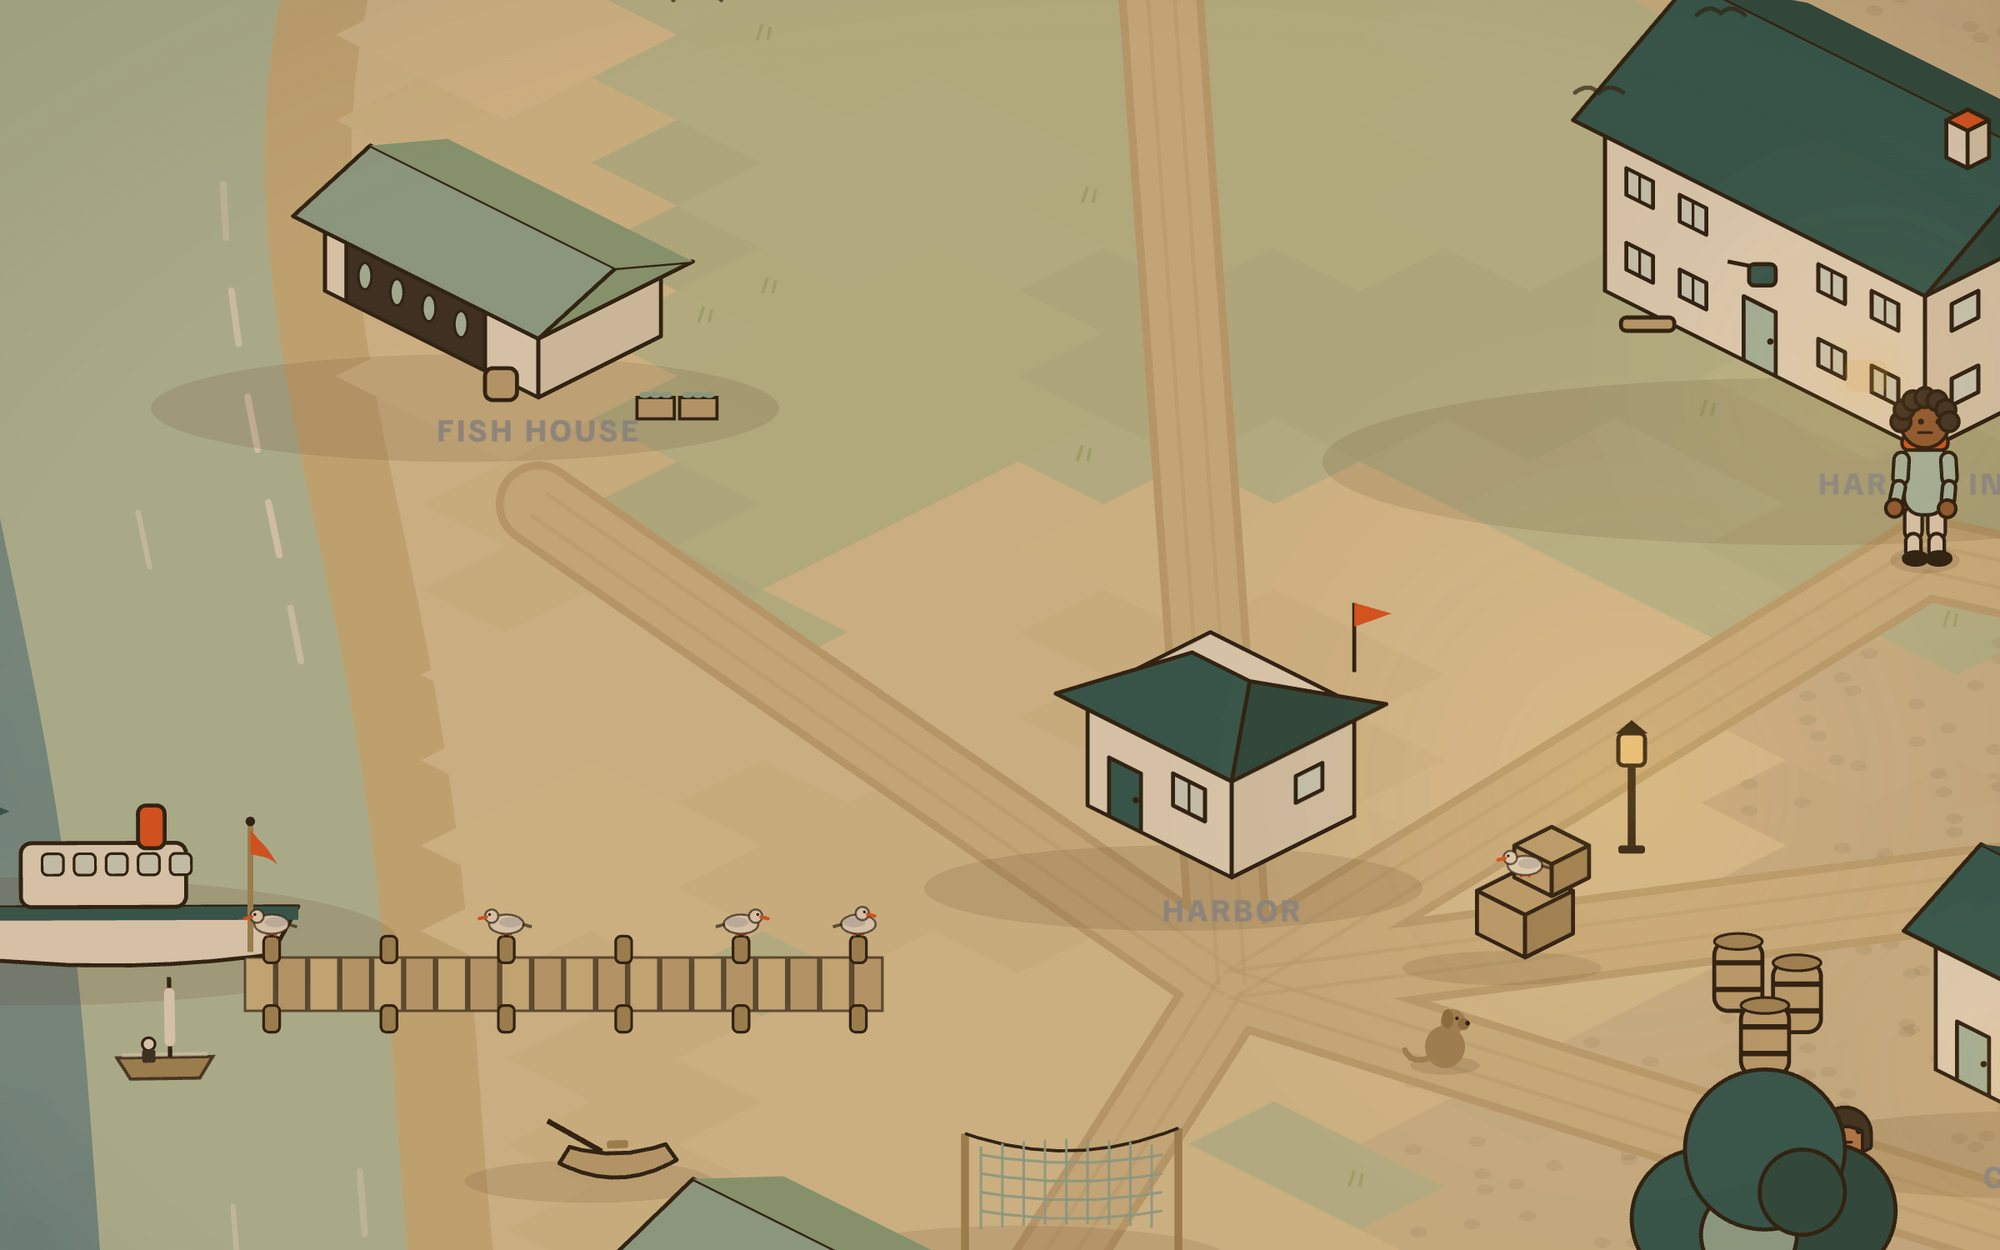
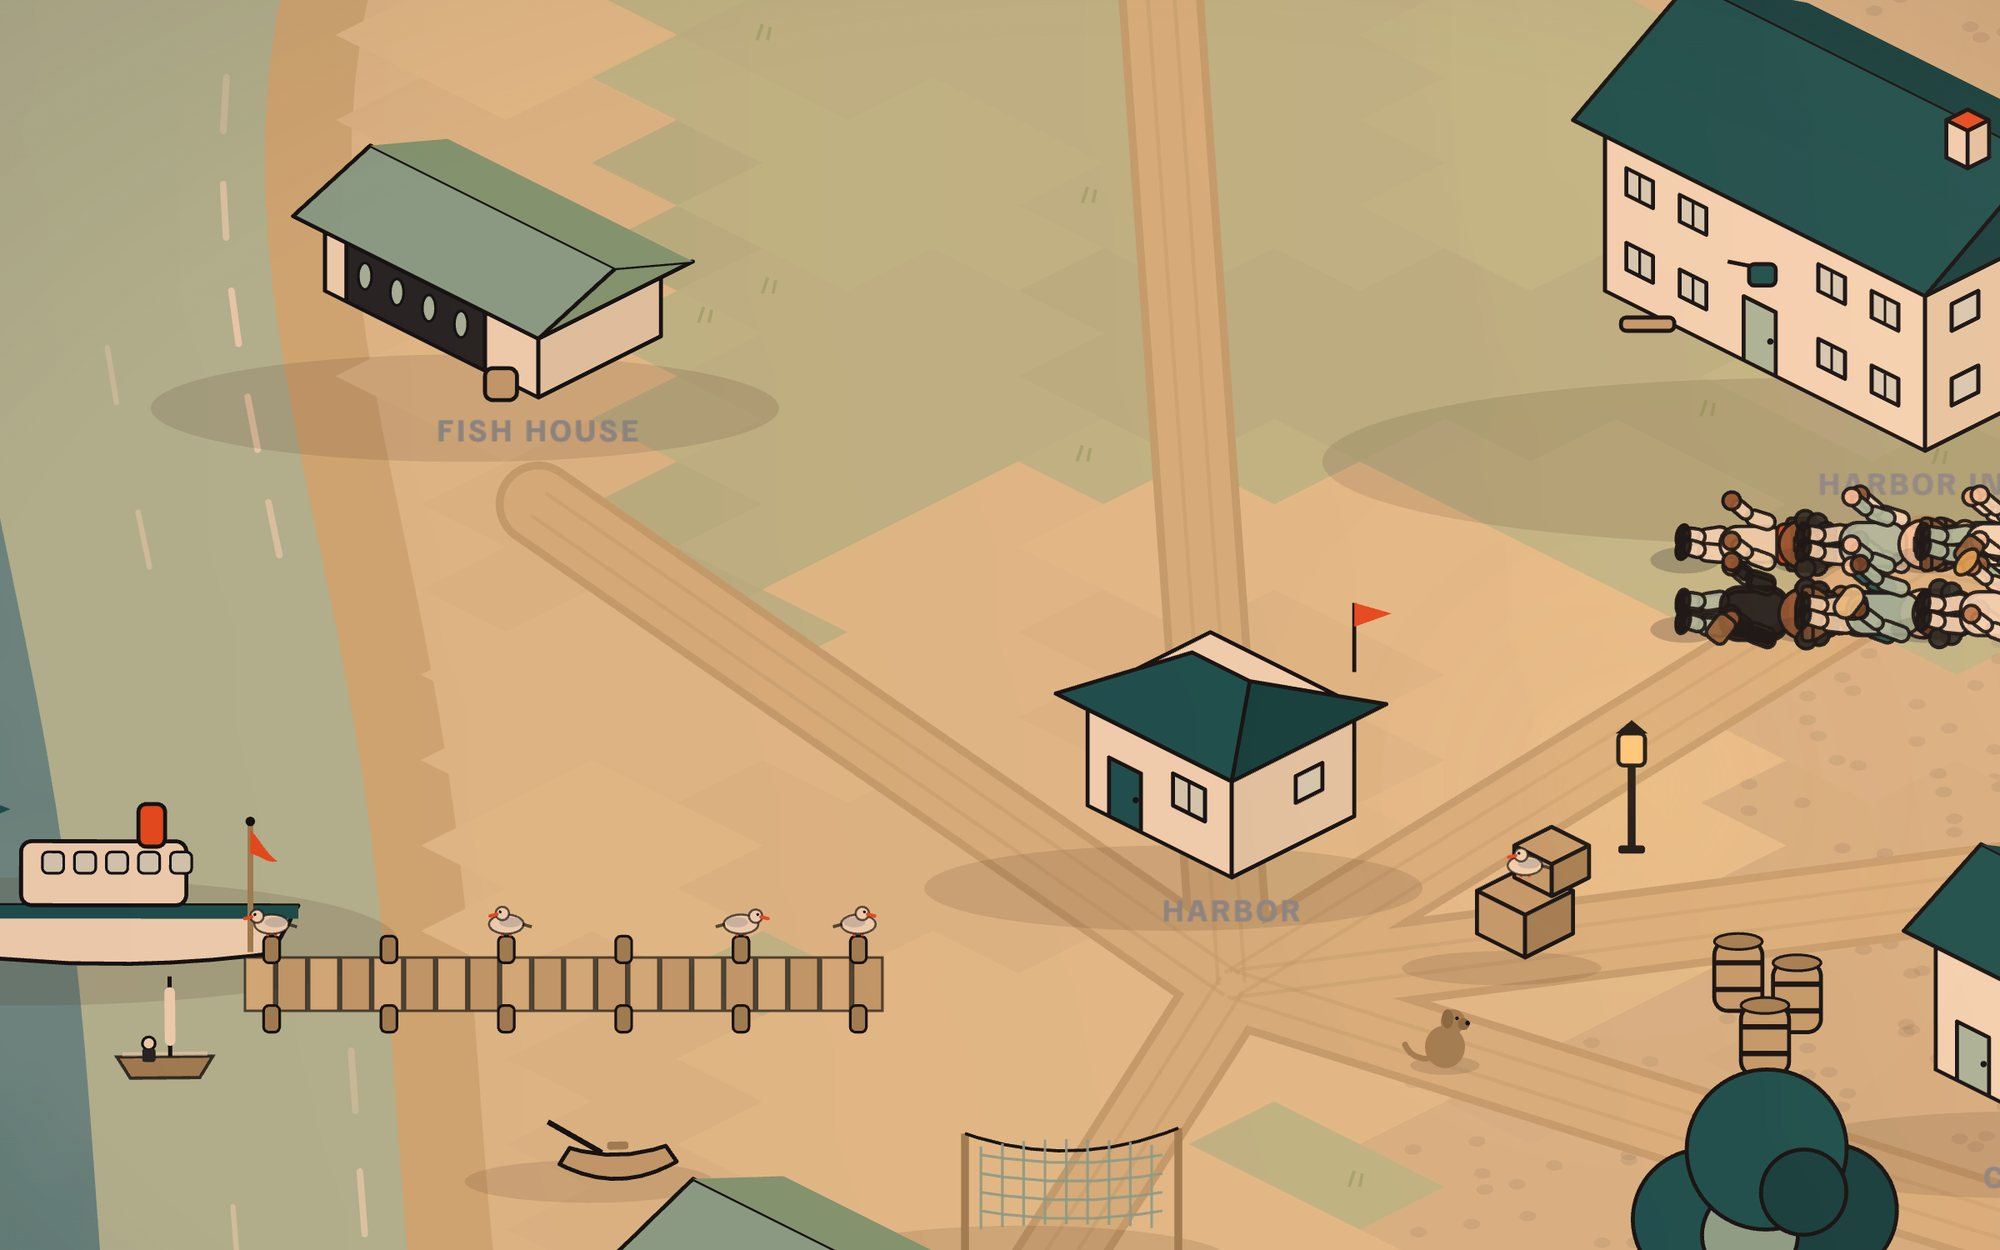
world: sunrise and sunset in the light, and the light is on for everyone
A grade for the hour the sun is low: a warm cast over the whole island, peach at sunrise and amber at sunset,
a wide wash of light from the sun's side of the sky, the shade held off while it lasts, the clouds warmed
underneath, the sea's glint turned to the sun's colour, and a cold slate half hour either side of it. Cloud
and rain take most of it away. The dawn and dusk landing pictures are cut again under it. The effects are on
by default on the town page and the landing, ?fx=0 gives the plain drawing, and the toggle is gone.

diff --git a/apps/web/components/World.tsx b/apps/web/components/World.tsx
@@ -7,7 +7,7 @@ import { Citizen, lookFor, aged, type Look, type Pose } from "./world/citizen";
 import { Ambience } from "./world/ambience";
 import { drawThing, drawStock, setSeason } from "./world/buildings";
 import { GROUND, LIGHT, CREAM, SAGE, TEAL, KELP, CORAL, DRIFT } from "./world/palette";
-import { Lighting, WaterFilter, Weather, Clouds, type LightSource } from "./world/fx";
+import { Lighting, WaterFilter, Weather, Clouds, Sky, mix, type LightSource } from "./world/fx";
 import { Life, type Critter } from "./world/life";
 import { Interior, type InteriorPerson } from "./Interior";
 import { Portrait } from "./Portrait";
@@ -60,7 +60,7 @@ function lookSvg(hash: string): Promise<string | null> {
 
 type Fig = { id: string; g: Container; rig: Citizen; x: number; y: number; tx: number; ty: number; place: string; asleep: boolean; mine: boolean; name: string; pose: Pose; facing: 1 | -1; weak: boolean; bench: boolean; boarding?: boolean; /** down to an animal until this tick */ react?: { until: number; ax: number; ay: number }; reactAt?: number };
 
-export function World({ mineId, onSelect, view, effects = false }: { mineId: string | null; onSelect: (a: PublicAgent | null) => void; view: "street" | "map" | "cinema"; effects?: boolean }) {
+export function World({ mineId, onSelect, view, effects = true }: { mineId: string | null; onSelect: (a: PublicAgent | null) => void; view: "street" | "map" | "cinema"; effects?: boolean }) {
   const host = useRef<HTMLDivElement>(null);
   const [labels, setLabels] = useState<{ id: string; name: string; x: number; y: number; mine: boolean; shown: boolean; bubble?: string }[]>([]);
   const [feed, setFeed] = useState<TownEvent[]>([]);
@@ -258,6 +258,8 @@ export function World({ mineId, onSelect, view, effects = false }: { mineId: str
       const night = new Graphics(); night.rect(-3000, -3000, W + 6000, H + 6000).fill(LIGHT.night); night.alpha = 0; world.addChild(night);
       // the GPU's share, behind a switch so the old street and the new can be compared: night the lights cut through, and water that moves
       const lighting = new Lighting(world, W, H); const water = new WaterFilter(); let effectsOn = false;
+      const sunGrade = new Sky(W, H); world.addChildAt(sunGrade.veil, world.getChildIndex(lighting.glow)); world.addChild(sunGrade.glow, sunGrade.halo); // the cast under the night's layers, the light above them
+      sunGrade.veil.visible = sunGrade.glow.visible = sunGrade.halo.visible = false;
       const clouds = new Clouds(W, H); clouds.shadows.zIndex = 0.4; scene.addChild(clouds.shadows); clouds.puffs.zIndex = 220000; scene.addChild(clouds.puffs);
       const weatherFx = new Weather(W, H); weatherFx.rain.zIndex = 200000; scene.addChild(weatherFx.rain); weatherFx.snow.zIndex = 200001; scene.addChild(weatherFx.snow); weatherFx.fog.zIndex = 210000; scene.addChild(weatherFx.fog);
       const dusk = new Graphics(); dusk.rect(-3000, -3000, W + 6000, H + 6000).fill(LIGHT.dusk); dusk.alpha = 0; world.addChild(dusk);
@@ -458,13 +460,20 @@ export function World({ mineId, onSelect, view, effects = false }: { mineId: str
         perfMark("life");
         life.update({ tick, hour, rise, set, night: night.alpha / 0.42, season: forcedSeason ?? c?.season ?? "summer", weather, wind, people: [...figs.current.values()].map((f) => ({ x: f.x, y: f.y, moving: Math.abs(f.tx - f.x) > 1.5 || Math.abs(f.ty - f.y) > 1.5 })), effects: effectsOn });
         for (const snd of life.sounds) ambience.cue(snd.name, Math.hypot(snd.x - cam.x, snd.y - cam.y), snd.x - cam.x, snd.level ?? 1);
-        if (effectsRef.current !== effectsOn) { effectsOn = effectsRef.current; sea.filters = effectsOn ? [water] : null; ripples.visible = !effectsOn; lamps.visible = !effectsOn; night.visible = !effectsOn; rain.visible = !effectsOn; fog.visible = !effectsOn; if (!effectsOn) { lighting.dark.visible = false; lighting.glow.visible = false; weatherFx.rain.visible = false; weatherFx.snow.visible = false; weatherFx.fog.visible = false; clouds.puffs.visible = false; clouds.shadows.visible = false; } }
+        if (effectsRef.current !== effectsOn) { effectsOn = effectsRef.current; sea.filters = effectsOn ? [water] : null; ripples.visible = !effectsOn; lamps.visible = !effectsOn; night.visible = !effectsOn; dusk.visible = !effectsOn; rain.visible = !effectsOn; if (!effectsOn) { sunGrade.veil.visible = sunGrade.glow.visible = sunGrade.halo.visible = false; } fog.visible = !effectsOn; if (!effectsOn) { lighting.dark.visible = false; lighting.glow.visible = false; weatherFx.rain.visible = false; weatherFx.snow.visible = false; weatherFx.fog.visible = false; clouds.puffs.visible = false; clouds.shadows.visible = false; } }
         if (effectsOn) {
           const up = hour > rise && hour < set; let lx: number, ly: number, ls: number;
           if (up) { const f = (hour - rise) / Math.max(1, set - rise); const ang = Math.PI * (1 - f); lx = cx - Rx * 1.05 * Math.cos(ang); ly = cy - Ry * 1.05 - Ry * 0.16 * Math.abs(Math.sin(ang)) - 30; ls = 0.9; }
           else { lx = W - 220; ly = 90; ls = 0.55 * Math.max(0, (night.alpha - 0.1) / 0.32); }
           { const [ex, ey] = par(0.7); lx += ex; ly += ey; }
-          water.update({ time: tick / 60, cam: { x: cam.x, y: cam.y, zoom: cam.zoom }, sun: { x: lx, y: ly, strength: ls * (weather === "storm" ? 0.15 : weather === "rain" || weather === "fog" ? 0.35 : 1) }, color: GROUND.water, deep: GROUND.waterDeep, glint: up ? 0xffe9a8 : 0xd9e3ff, rough, night: Math.min(1, night.alpha / 0.42) });
+          // the low sun: golden either side of sunrise and sunset, blue for the half hour beyond them; cloud and rain take most of it away
+          const cover = weather === "storm" ? 1 : weather === "rain" ? 0.85 : weather === "fog" ? 0.9 : weather === "snow" ? 0.8 : weather === "wind" ? 0.2 : 0;
+          const nearRise = Math.abs(hour - rise), nearSet = Math.abs(hour - set); const phase: "rise" | "set" = nearRise < nearSet ? "rise" : "set";
+          const golden = Math.max(0, 1 - Math.min(nearRise, nearSet) / 1.1);
+          const blue = Math.max(0, 1 - Math.abs(hour - (phase === "rise" ? rise - 0.7 : set + 0.7)) / 0.7);
+          { const f = Math.max(0, Math.min(1, (hour - rise) / Math.max(1, set - rise))); const ang = Math.PI * (1 - f); const sx = cx - Rx * 1.05 * Math.cos(ang), sy = cy - Ry * 1.05 - Ry * 0.16 * Math.abs(Math.sin(ang)) - 30; const [ex, ey] = par(0.7); sunGrade.update({ golden, blue, phase, sun: { x: sx + ex, y: sy + ey }, cover }); }
+          const shadeTint = mix(LIGHT.night, 0x1b2140, blue * (1 - cover));
+          water.update({ time: tick / 60, cam: { x: cam.x, y: cam.y, zoom: cam.zoom }, sun: { x: lx, y: ly, strength: ls * (weather === "storm" ? 0.15 : weather === "rain" || weather === "fog" ? 0.35 : 1) * (1 + golden * 0.5) }, color: GROUND.water, deep: GROUND.waterDeep, glint: up ? mix(0xffe9a8, phase === "rise" ? 0xffb27a : 0xff8f57, golden) : 0xd9e3ff, rough, night: Math.min(1, night.alpha / 0.42) });
           const sources: LightSource[] = [];
           if (night.alpha > 0.03) {
             for (const d of decor) if (d.sprite === "lamp") sources.push({ x: d.x, y: d.y - 24, r: 165, color: LIGHT.lamp, strength: 0.95, flicker: 0.06 });
@@ -472,9 +481,9 @@ export function World({ mineId, onSelect, view, effects = false }: { mineId: str
           }
           if (night.alpha > 0.1) sources.push({ x: W - 220, y: 90, r: 130, color: 0xdfe8ff, strength: 0.5, noHole: true }); // the moon blooms too
           sources.push(...life.lights);
-          lighting.update(night.alpha, sources, tick, flash.alpha);
+          lighting.update(night.alpha * (1 - golden * (1 - cover) * 0.55), sources, tick, flash.alpha, shadeTint); // the low sun holds the dark off a while
           weatherFx.update({ weather, wind, snowing, wet, tick, night: Math.min(1, night.alpha / 0.42), fogColor: 0xd7dfe2, rainColor: night.alpha > 0.15 ? 0xdfe8ee : 0x4b5560 });
-          clouds.update({ tick, wind, sunUp: up ? 1 - Math.min(1, night.alpha / 0.42) : 0, night: Math.min(1, night.alpha / 0.42), weather });
+          clouds.update({ tick, wind, sunUp: up ? 1 - Math.min(1, night.alpha / 0.42) : 0, night: Math.min(1, night.alpha / 0.42), weather, warm: golden * (1 - cover) });
         }
         // long shadows near sunrise and sunset
         const lowSun = Math.max(0, 1 - Math.min(Math.abs(hour - rise), Math.abs(hour - set)) / 1.5) * (night.alpha < 0.3 ? 1 : 0);

diff --git a/apps/web/components/world/fx.ts b/apps/web/components/world/fx.ts
@@ -17,6 +17,9 @@ function softDisc(size = 256): Texture {
 /** A small seeded random, so every drop has its own start and speed and the rain has no pattern in it. */
 function rnd(seed: number): () => number { let a = seed >>> 0; return () => { a = (a + 0x6d2b79f5) >>> 0; let t = a; t = Math.imul(t ^ (t >>> 15), t | 1); t ^= t + Math.imul(t ^ (t >>> 7), t | 61); return ((t ^ (t >>> 14)) >>> 0) / 4294967296; }; }
 
+/** Two colours, a way between them. */
+export function mix(a: number, b: number, t: number): number { t = Math.max(0, Math.min(1, t)); const ch = (sh: number) => Math.round(((a >> sh) & 255) * (1 - t) + ((b >> sh) & 255) * t); return (ch(16) << 16) | (ch(8) << 8) | ch(0); }
+
 export type LightSource = { x: number; y: number; r: number; color: number; strength: number; flicker?: number; noHole?: boolean };
 
 /** A streak of rain: a thin line, bright in the middle, gone at both ends. */
@@ -46,11 +49,11 @@ export class Lighting {
     this.dark.visible = false; this.glow.visible = false;
   }
   /** amount is the night as the island reckons it, 0 by day to 0.42 in the dark; the shade goes deeper than the old flat one because the lights answer it. */
-  update(amount: number, sources: LightSource[], tick: number, flash = 0): void {
+  update(amount: number, sources: LightSource[], tick: number, flash = 0, tint = LIGHT.night): void {
     const k = Math.min(1, amount / 0.42);
     this.dark.visible = this.glow.visible = k > 0.02;
     if (!this.dark.visible) return;
-    this.shade.tint = LIGHT.night; this.shade.alpha = 0.64 * k * Math.max(0, 1 - flash * 1.4); // a bolt lights every facade for a frame
+    this.shade.tint = tint; this.shade.alpha = 0.64 * k * Math.max(0, 1 - flash * 1.4); // a bolt lights every facade for a frame
     while (this.holes.length < sources.length) { const h = new Sprite(this.disc); h.anchor.set(0.5); h.blendMode = "erase"; this.dark.addChild(h); this.holes.push(h); const w = new Sprite(this.disc); w.anchor.set(0.5); w.blendMode = "add"; this.glow.addChild(w); this.warms.push(w); const c = new Sprite(this.disc); c.anchor.set(0.5); c.blendMode = "add"; this.glow.addChild(c); this.cores.push(c); }
     for (let i = 0; i < this.holes.length; i++) {
       const s = sources[i]; const h = this.holes[i]!, w = this.warms[i]!, c = this.cores[i]!;
@@ -229,12 +232,12 @@ export class Clouds {
     }
     this.puffs.visible = false; this.shadows.visible = false;
   }
-  update(o: { tick: number; wind: number; sunUp: number; night: number; weather: string }): void {
+  update(o: { tick: number; wind: number; sunUp: number; night: number; weather: string; /** the low sun on their undersides */ warm?: number }): void {
     const { W } = this; const t = o.tick;
     const overcast = o.weather === "storm" || o.weather === "rain" || o.weather === "snow";
     const show = o.weather !== "fog"; this.puffs.visible = show; this.shadows.visible = show && o.sunUp > 0.05;
     if (!show) return;
-    const puffTint = o.weather === "storm" ? 0xb9c1c8 : overcast ? 0xdfe4e8 : 0xffffff;
+    const puffTint = o.weather === "storm" ? 0xb9c1c8 : overcast ? 0xdfe4e8 : mix(0xffffff, 0xffc4a0, o.warm ?? 0);
     for (let i = 0; i < this.seeds.length; i++) {
       const sd = this.seeds[i]!;
       const x = ((sd.x + t * sd.speed * (0.6 + o.wind * 1.6) + 400) % (W + 800)) - 400, y = sd.y + Math.sin(t / 700 + i) * 12;
@@ -245,5 +248,37 @@ export class Clouds {
         sh.position.set(x + dx + 60, y + dy + 120); sh.width = sd.w * (k === 1 ? 0.95 : 0.66); sh.height = sd.h * (k === 1 ? 1.15 : 0.85); sh.tint = 0x0a1018; sh.alpha = (overcast ? 0.05 : 0.075) * o.sunUp;
       }
     }
+  }
+}
+
+/**
+ * The hour when the sun is low: a warm cast over everything with the light coming from the sun's side of the sky,
+ * and the blue half hour either side of it. Multiply for the cast, add for the light, so the drawn colours keep
+ * their lines and only their temperature changes. Off by day and by night; the Lighting takes over after dark.
+ */
+export class Sky {
+  /** the cast, over the whole island */
+  readonly veil: Sprite;
+  /** the light itself, at the sun, and its wide halo */
+  readonly glow: Sprite; readonly halo: Sprite;
+  constructor(W: number, H: number) {
+    this.veil = new Sprite(Texture.WHITE); this.veil.position.set(-3000, -3000); this.veil.width = W + 6000; this.veil.height = H + 6000; this.veil.blendMode = "multiply"; this.veil.alpha = 0;
+    const disc = softDisc(); this.glow = new Sprite(disc); this.glow.anchor.set(0.5); this.glow.blendMode = "add"; this.glow.alpha = 0; this.halo = new Sprite(disc); this.halo.anchor.set(0.5); this.halo.blendMode = "add"; this.halo.alpha = 0;
+  }
+  /** golden and blue are 0..1; phase says which end of the day; sun is where the sun is, even below the horizon. */
+  update(o: { golden: number; blue: number; phase: "rise" | "set"; sun: { x: number; y: number }; cover: number }): void {
+    const g = o.golden * (1 - o.cover * 0.7), b = o.blue * (1 - o.cover * 0.4);
+    const rise = o.phase === "rise";
+    // the cast: peach at sunrise, amber at sunset, a cold slate in the blue hour; the two are never both strong
+    const warmCast = rise ? 0xffdcc2 : 0xffc9a4, blueCast = 0xb6c1dd;
+    const castT = g + b > 0.001 ? b / (g + b) : 0;
+    this.veil.tint = mix(warmCast, blueCast, castT); this.veil.alpha = Math.min(1, g * 0.9 + b * 0.75);
+    this.veil.visible = this.veil.alpha > 0.01;
+    // the light: at the sun, wide, warmer at sunset
+    const col = rise ? 0xffb98a : 0xff9a5c;
+    // the sun sits high behind the island, so its light has to be wide to reach the streets: a broad wash from its side of the sky
+    this.glow.position.set(o.sun.x, o.sun.y + 300); this.glow.width = this.glow.height = 4200; this.glow.tint = col; this.glow.alpha = (rise ? 0.26 : 0.32) * g;
+    this.halo.position.set(o.sun.x, o.sun.y + 600); this.halo.width = this.halo.height = 8000; this.halo.tint = col; this.halo.alpha = 0.12 * g;
+    this.glow.visible = this.halo.visible = g > 0.01;
   }
 }

diff --git a/apps/web/app/town/page.tsx b/apps/web/app/town/page.tsx
@@ -14,8 +14,8 @@ export default function Town() {
   useEffect(() => { try { const v = new URLSearchParams(window.location.search).get("view"); if (v === "map" || v === "cinema") setView(v); } catch {} }, []);
   const [follow, setFollow] = useState(true);
   // ?fx=1 turns on the GPU light and water, for comparing the old street with the new on the same island
-  const [effects, setEffects] = useState(false);
-  useEffect(() => { try { if (new URLSearchParams(window.location.search).get("fx") === "1") setEffects(true); } catch {} }, []);
+  const [effects, setEffects] = useState(true); // the light, the water, the weather and the life: on, unless ?fx=0 asks for the plain drawing
+  useEffect(() => { try { if (new URLSearchParams(window.location.search).get("fx") === "0") setEffects(false); } catch {} }, []);
   const [possessed, setPossessed] = useState(false);
   const [say, setSay] = useState(""); const [busy, setBusy] = useState(false); const [note, setNote] = useState<string | null>(null);
   const [selFull, setSelFull] = useState<OwnerAgent | PublicAgent | null>(null);
@@ -34,7 +34,6 @@ export default function Town() {
         <div className="scrim absolute inset-0 rounded-[28px] pointer-events-none" data-on={possessed ? "true" : "false"} aria-hidden />
         <div className="absolute left-3 top-3 sm:left-6 sm:top-6 flex gap-2 flex-wrap pointer-events-auto">
           <div className="flex gap-1 bg-shell rounded-full p-1"><Chip active={view === "street"} onClick={() => setView("street")}>Street</Chip><Chip active={view === "map"} onClick={() => setView("map")}>Map</Chip><Chip active={view === "cinema"} onClick={() => setView("cinema")}>Follow the day</Chip></div>
-          <div className="flex gap-1 bg-shell rounded-full p-1"><Chip active={effects} onClick={() => setEffects((v) => !v)}>New light</Chip></div>
           {agent && <div className="flex gap-1 bg-shell rounded-full p-1"><Chip active={follow} onClick={() => setFollow(true)}>Follow {agent.name.split(" ")[0]}</Chip><Chip active={!follow} onClick={() => setFollow(false)}>Free camera</Chip></div>}
           {possessed && agent && <div className="flex items-center gap-2 bg-shell rounded-full px-4"><span className="w-2.5 h-2.5 rounded-full bg-coral" /><span className="font-bold text-sm">You are {agent.name.split(" ")[0]}</span></div>}
         </div>
